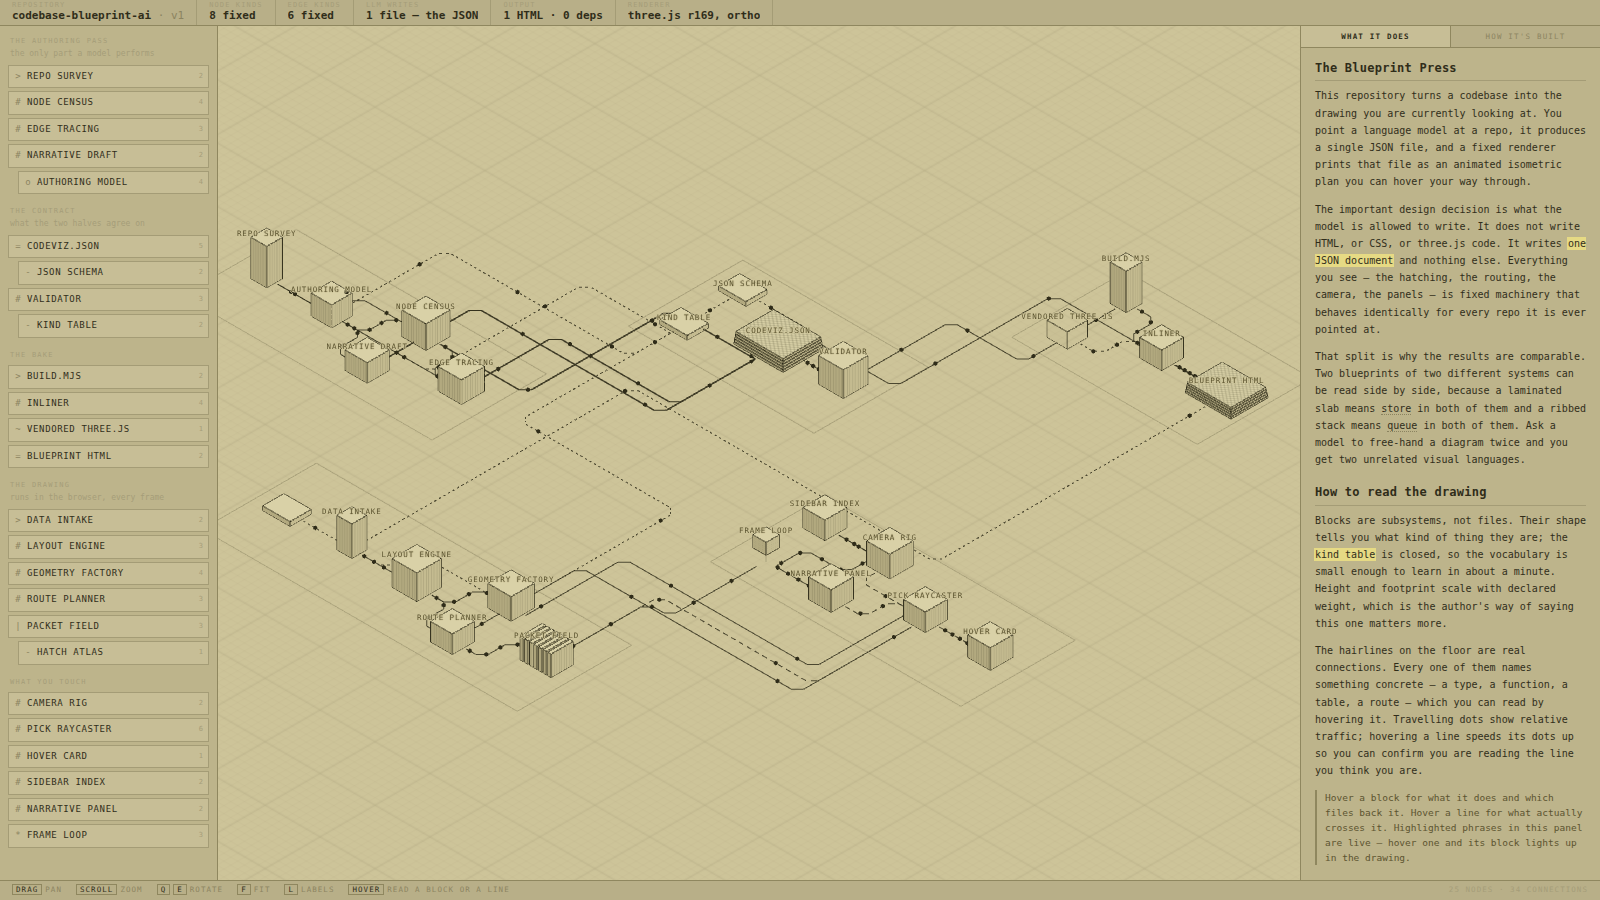
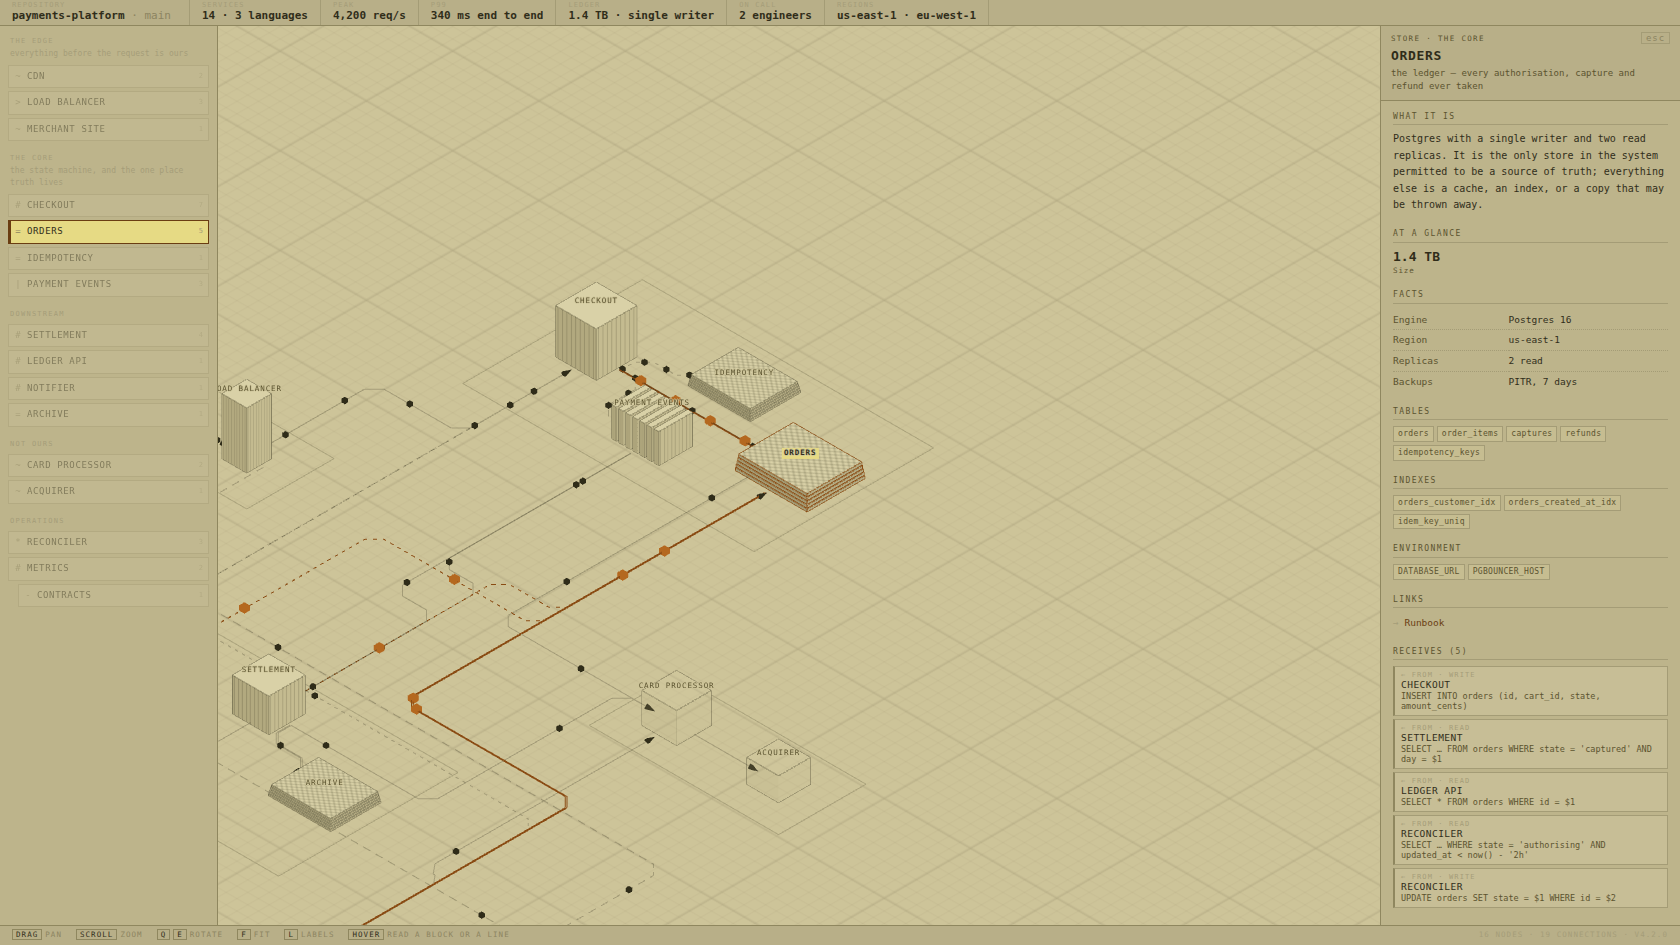
docs: a README that earns the click, and correct Railway guidance
- README opens with badges, a real hero image from the payments sample, and a
  'why not just use Mermaid' section that answers the first question anyone
  reading an OSS diagram tool actually has
- docs/preview.png regenerated: the payments blueprint with the ledger
  selected, so the inspector's table names and indexes are visible
- inspector fact labels were too faint to read at a glance
- removed site/railway.json. Railway resolves config files from the repository
  root, not the service root directory, so one sitting in site/ is silently
  ignored. package.json's start script is the whole configuration.

diff --git a/renderer/shell.css b/renderer/shell.css
@@ -537,7 +537,7 @@ html, body {
 .ifacts tr { border-bottom: 1px dotted var(--rule-soft); }
 .ifacts tr:last-child { border-bottom: 0; }
 .ifacts td { padding: 3px 0; vertical-align: top; }
-.ifacts td.k { color: var(--ink-ghost); width: 40%; padding-right: 8px; }
+.ifacts td.k { color: var(--ink-soft); width: 42%; padding-right: 10px; }
 .ifacts td.v { color: var(--ink); word-break: break-word; }
 
 .ichips { display: flex; flex-wrap: wrap; gap: 3px; }

diff --git a/site/payments.blueprint.html b/site/payments.blueprint.html
@@ -544,7 +544,7 @@ html, body {
 .ifacts tr { border-bottom: 1px dotted var(--rule-soft); }
 .ifacts tr:last-child { border-bottom: 0; }
 .ifacts td { padding: 3px 0; vertical-align: top; }
-.ifacts td.k { color: var(--ink-ghost); width: 40%; padding-right: 8px; }
+.ifacts td.k { color: var(--ink-soft); width: 42%; padding-right: 10px; }
 .ifacts td.v { color: var(--ink); word-break: break-word; }
 
 .ichips { display: flex; flex-wrap: wrap; gap: 3px; }

diff --git a/README.md b/README.md
@@ -1,34 +1,59 @@
-<h1>Gridwillow</h1>
+# Gridwillow
 
-**A 3D diagram language for software architecture.** Mermaid, with depth.
+**A 3D diagram language for software architecture.**
 
-[gridwillow.com](https://gridwillow.com)
+[![licence](https://img.shields.io/badge/licence-MIT-black)](LICENSE)
+[![language](https://img.shields.io/badge/compiler-Rust-black)](crates/gridwillow)
+[![site](https://img.shields.io/badge/gridwillow.com-live-4a9d5f)](https://gridwillow.com)
 
-Write a `.bp` file describing your servers, databases, queues and the data that
-moves between them. Get back an animated isometric engineering drawing you can
-pan, hover and click through — with a full inspector panel behind every block.
+Write a plain text file describing your services, databases, queues and the data
+that moves between them. Get back an isometric engineering drawing you can pan,
+hover and click through — with a full inspector behind every block.
 
-![the drawing](docs/preview.png)
+![A Gridwillow blueprint of a payments platform, with the ledger selected and its inspector open](docs/preview.png)
 
 ```
-db orders "Orders" x1.4
-  is    the ledger — every authorisation, capture and refund
+db orders "Orders" x1.5
+  is    the ledger — every authorisation, capture and refund ever taken
   why >
-    Postgres, single writer, replicas for reads. It is the only store in
-    the system allowed to be the source of truth.
+    Postgres with a single writer and two read replicas. It is the only
+    store in the system permitted to be a source of truth; everything else
+    is a cache, an index, or a copy that may be thrown away.
   fact  Engine  = Postgres 16
-  list  Tables  = orders, order_items, captures, refunds
+  fact  Backups = PITR, 7 days
+  list  Tables  = orders, order_items, captures, refunds, idempotency_keys
   link  Runbook = https://wiki/runbooks/orders-db
   env   DATABASE_URL PGBOUNCER_HOST
 
 checkout -write-> orders "the authorisation"
   carry INSERT INTO orders (id, cart_id, state, amount_cents)
-  why   Written before the processor is called, never after. If the process
-        dies between the two, reconciliation finds the orphan by state.
+  why >
+    Written before the processor is called, never after. If the process dies
+    between the two, the reconciler finds the orphan by its state.
   vol   0.8
 ```
 
----
+## Why not just use Mermaid
+
+Mermaid draws the graph you typed. Gridwillow makes you say enough about the
+system that the drawing is worth keeping:
+
+- **Shape carries meaning.** Eight block shapes, closed set — a laminated slab
+  is a store, a ribbed stack is a queue, a ghost box is something you don't own.
+  Two blueprints of two unrelated systems can be read side by side.
+- **Every line has to be real.** A connection must name a concrete function,
+  type, table or route in `carry`. If you can't name what crosses it, the
+  compiler tells you the line isn't real. This is the rule that stops
+  architecture diagrams becoming boxes joined by vibes.
+- **Detail lives in the file.** `fact`, `list`, `link` and `env` fill an
+  inspector that opens on click — table names, indexes, env vars, runbooks —
+  so the diagram answers questions instead of just decorating a wiki.
+- **It compiles.** Dangling references, undeclared blocks and missing prose are
+  errors with a line and a column. Vague payloads and unwired blocks are
+  warnings. A blueprint that renders is a blueprint someone checked.
+
+The cost is that it is more work to write than a Mermaid graph. That is on
+purpose, and it's why the [agent skills](#let-an-agent-write-it) exist.
 
 ## Use it
 
@@ -46,11 +71,11 @@ Or open it in the app, which redraws every time you save:
 cd app && cargo tauri dev
 ```
 
-Try the repo describing itself, or a real 39-block system:
+Three examples ship with it:
 
 ```bash
-bp export examples/payments.bp           # a payments platform, 16 blocks
-bp export examples/metalcraft-agent.bp   # a real Rust service, 39 blocks
+bp export examples/payments.bp           # a payments platform — 16 blocks
+bp export examples/metalcraft-agent.bp   # a real Rust service — 39 blocks
 bp export examples/self.bp               # this repo, describing itself
 ```
 
@@ -184,9 +209,22 @@ step.
 cd site && npm start        # http://localhost:3000
 ```
 
-Deploy it by pointing a Railway service at this repo with **Root Directory** set
-to `site`. Nixpacks finds `site/package.json`, runs `node server.js`, and never
-touches the Rust half; redeploys only trigger on changes under that path.
+### Deploying it
+
+New Railway service from this repo, then in **Settings → Source** set
+**Root Directory** to `site`. That is the whole configuration — the builder finds
+`site/package.json`, sees the `start` script, and runs it. There is deliberately
+no `railway.json`: Railway resolves config files from the *repository* root
+rather than the service root, so one sitting in `site/` would be silently
+ignored and one at the top would need an absolute path for no benefit.
+
+Set **Watch Paths** to `site/**` if you don't want a Rust commit redeploying the
+page.
+
+For the domain: Railway issues a CNAME and a TXT record, both required. An apex
+like `gridwillow.com` needs a provider that flattens CNAMEs at the root —
+Cloudflare, DNSimple, Namecheap and bunny.net all do; a plain A record will not
+work.
 
 `site/payments.blueprint.html` is the one build artifact in version control —
 Railway builds `site/` alone and has no Rust toolchain to regenerate it. After
